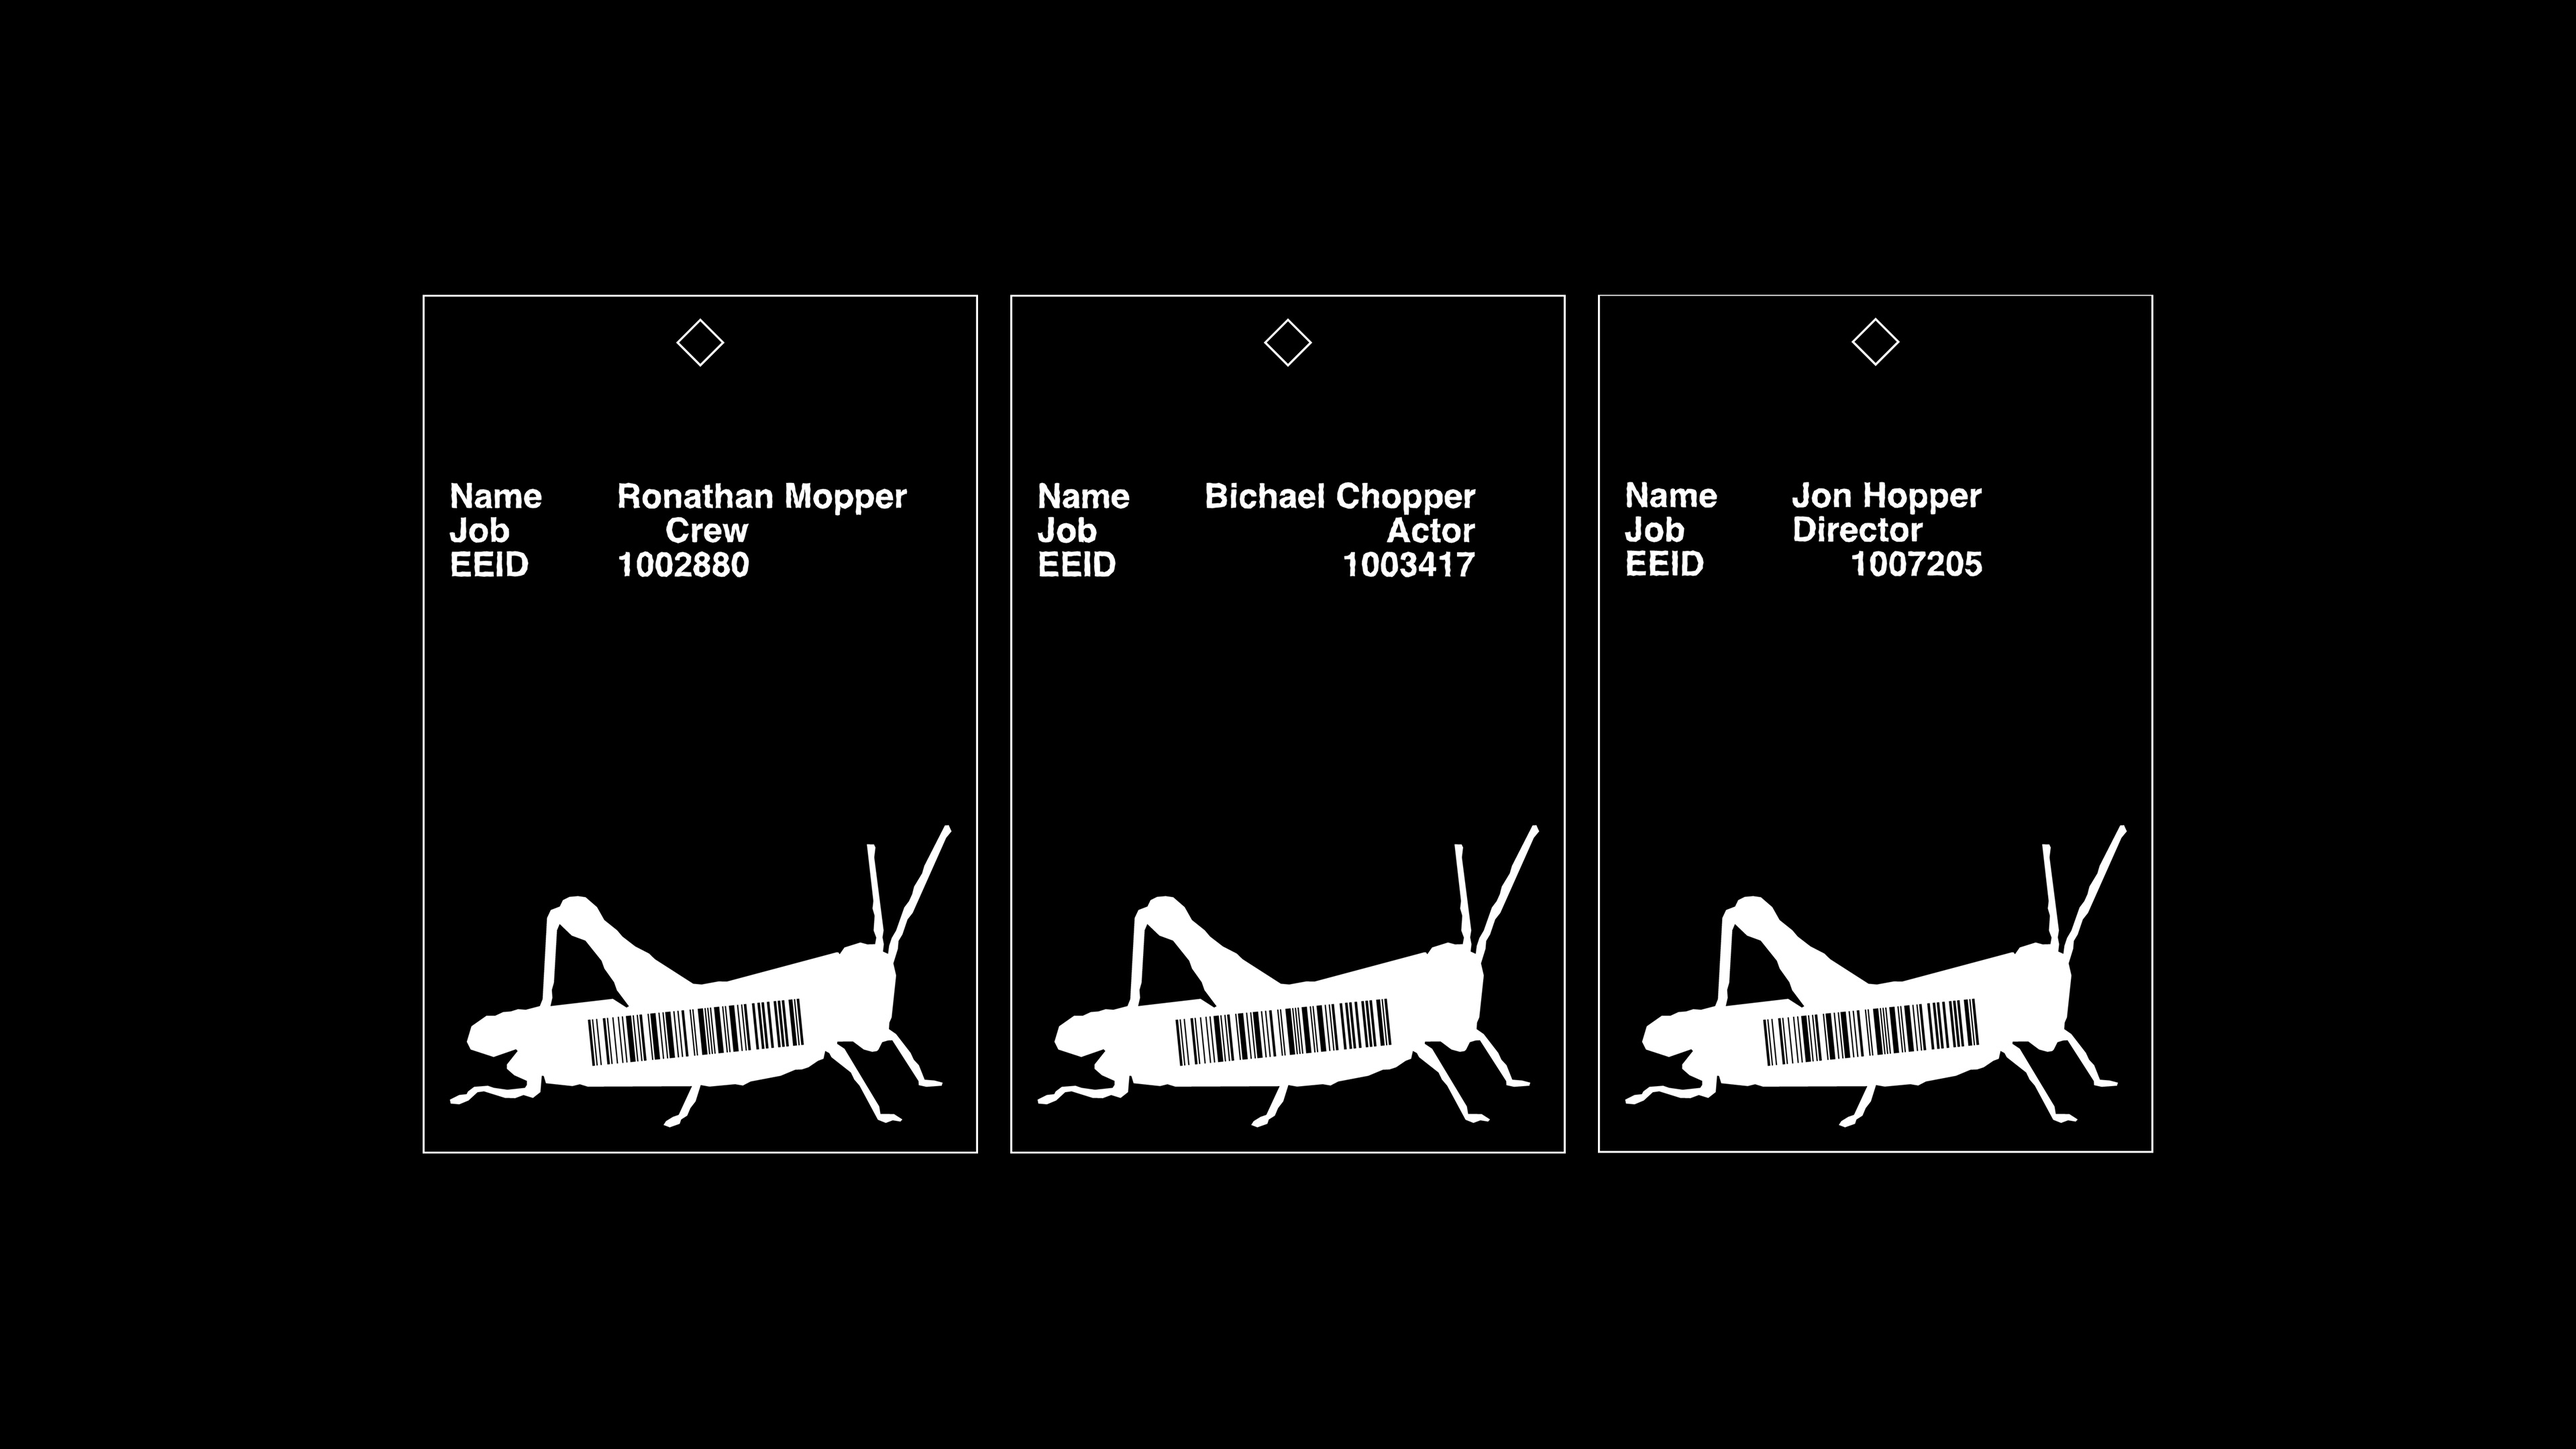
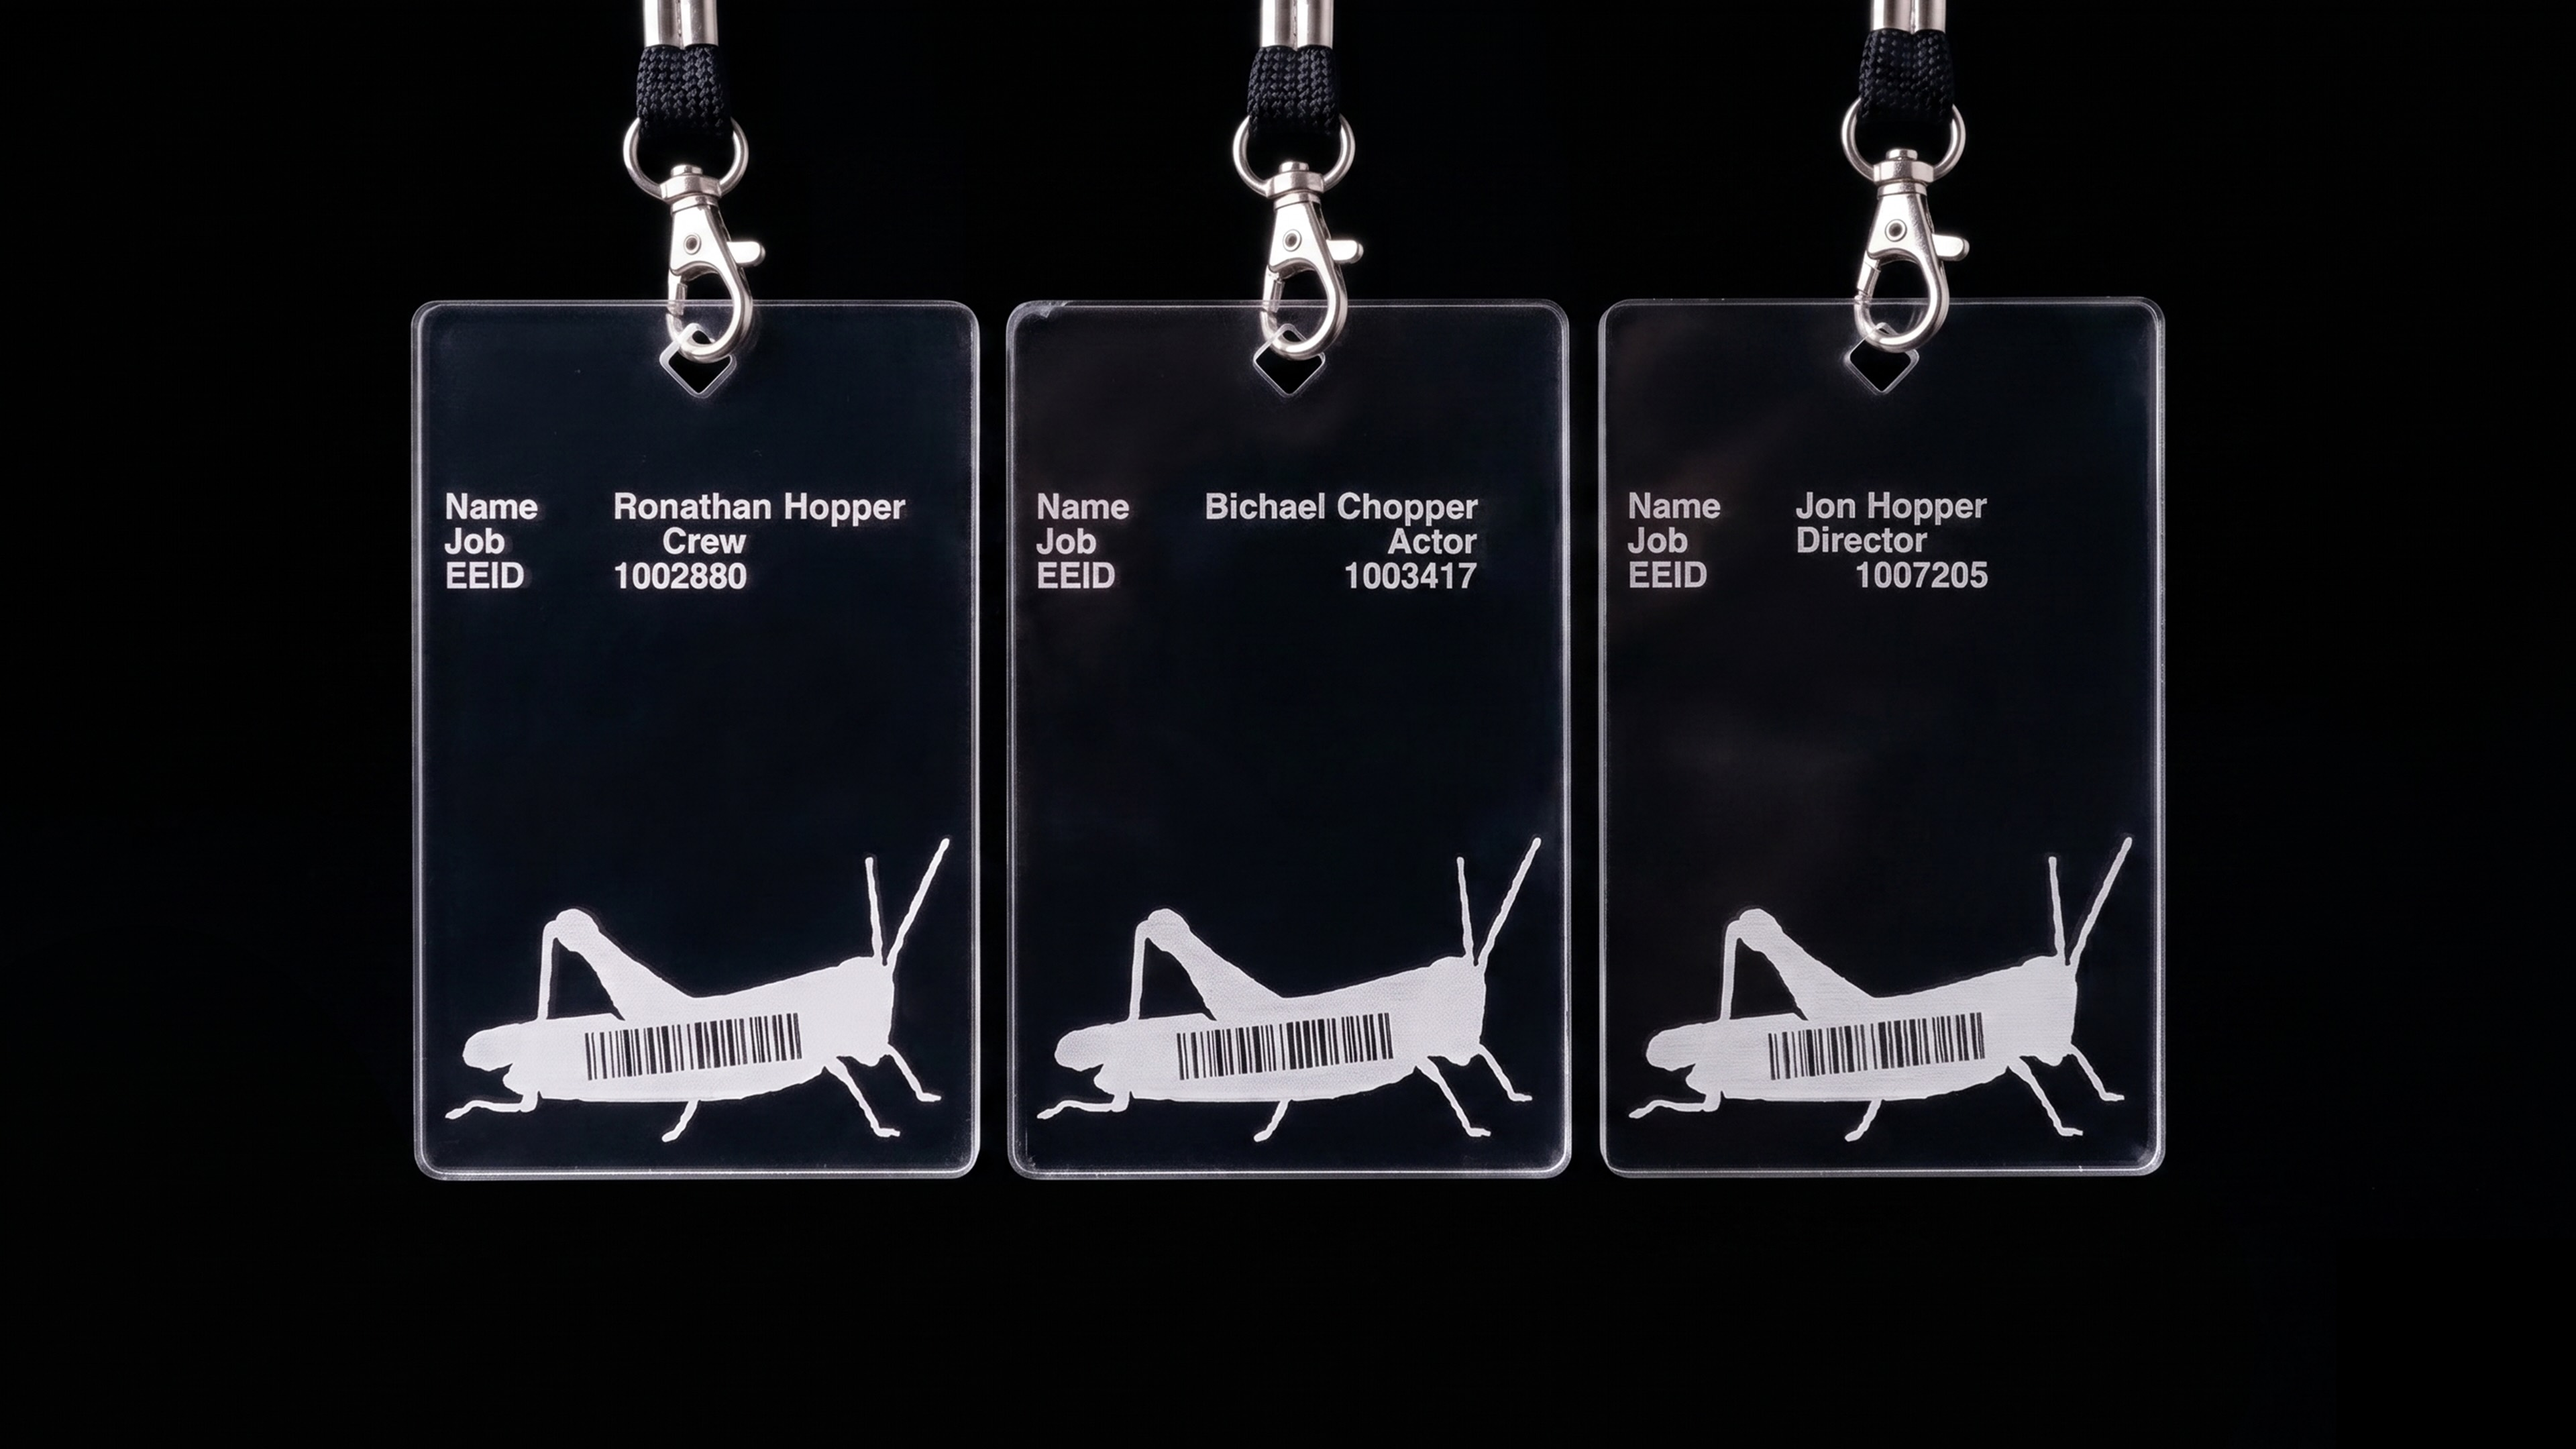
updated grasshoppa

Changed region(s): [[0.1562, 0.0, 0.8438, 0.8375], [0.6562, 0.4963, 0.7188, 0.5583]]

diff --git a/projects/grasshoppa.html b/projects/grasshoppa.html
@@ -56,7 +56,7 @@
             Branding, 3D, Motion, Illustration, Sound Design<br>
             October 2025<br>
             Andrew Walters<br>
-            Used AI to generate 3D grasshopper figurine meshes from illustrations.<br>
+            Used AI to generate badge mockups and grasshopper figurine meshes from illustrations; then textured, lit, and rendered in Blender.<br>
           </h4>
         </div>
       </div>
@@ -73,19 +73,6 @@
         allow="autoplay; fullscreen; picture-in-picture"
         allowfullscreen
       ></iframe>
-
-      <img class="clickable-image" src="/assets/images/grasshoppa/grasshoppa-05.jpg" alt="Grasshoppa!, Image 5">
-
-      <div class="carousel">
-        <button class="carousel-btn prev" onclick="prevSlide()">&#10094;</button>
-        <div class="carousel-images">
-        <img class="clickable-image" src="/assets/images/grasshoppa/grasshoppa-06.jpg" alt="Grasshoppa!, Image 6">
-          <img class="clickable-image" src="/assets/images/grasshoppa/grasshoppa-07.jpg" alt="Grasshoppa!, Image 7">
-          <img class="clickable-image" src="/assets/images/grasshoppa/grasshoppa-08.jpg" alt="Grasshoppa!, Image 8">
-          <img class="clickable-image" src="/assets/images/grasshoppa/grasshoppa-09.jpg" alt="Grasshoppa!, Image 9">
-        </div>
-        <button class="carousel-btn next" onclick="nextSlide()">&#10095;</button>
-      </div>
 
       <div class="carousel">
         <button class="carousel-btn prev" onclick="prevSlide()">&#10094;</button>
@@ -113,6 +100,20 @@
       </div>
 
       <img class="clickable-image" src="/assets/images/grasshoppa/grasshoppa-13.jpg" alt="Grasshoppa!, Image 13">
+
+
+      <div class="carousel">
+        <button class="carousel-btn prev" onclick="prevSlide()">&#10094;</button>
+        <div class="carousel-images">
+          <img class="clickable-image" src="/assets/images/grasshoppa/grasshoppa-06.jpg" alt="Grasshoppa!, Image 6">
+          <img class="clickable-image" src="/assets/images/grasshoppa/grasshoppa-07.jpg" alt="Grasshoppa!, Image 7">
+          <img class="clickable-image" src="/assets/images/grasshoppa/grasshoppa-08.jpg" alt="Grasshoppa!, Image 8">
+          <img class="clickable-image" src="/assets/images/grasshoppa/grasshoppa-09.jpg" alt="Grasshoppa!, Image 9">
+        </div>
+        <button class="carousel-btn next" onclick="nextSlide()">&#10095;</button>
+      </div>
+
+      <img class="clickable-image" src="/assets/images/grasshoppa/grasshoppa-05.jpg" alt="Grasshoppa!, Image 5">
 
       <img class="clickable-image" src="/assets/images/grasshoppa/grasshoppa-10.jpg" alt="Grasshoppa!, Image 10">
       <img class="clickable-image" src="/assets/images/grasshoppa/grasshoppa-11.gif" alt="Grasshoppa!, Image 11">
